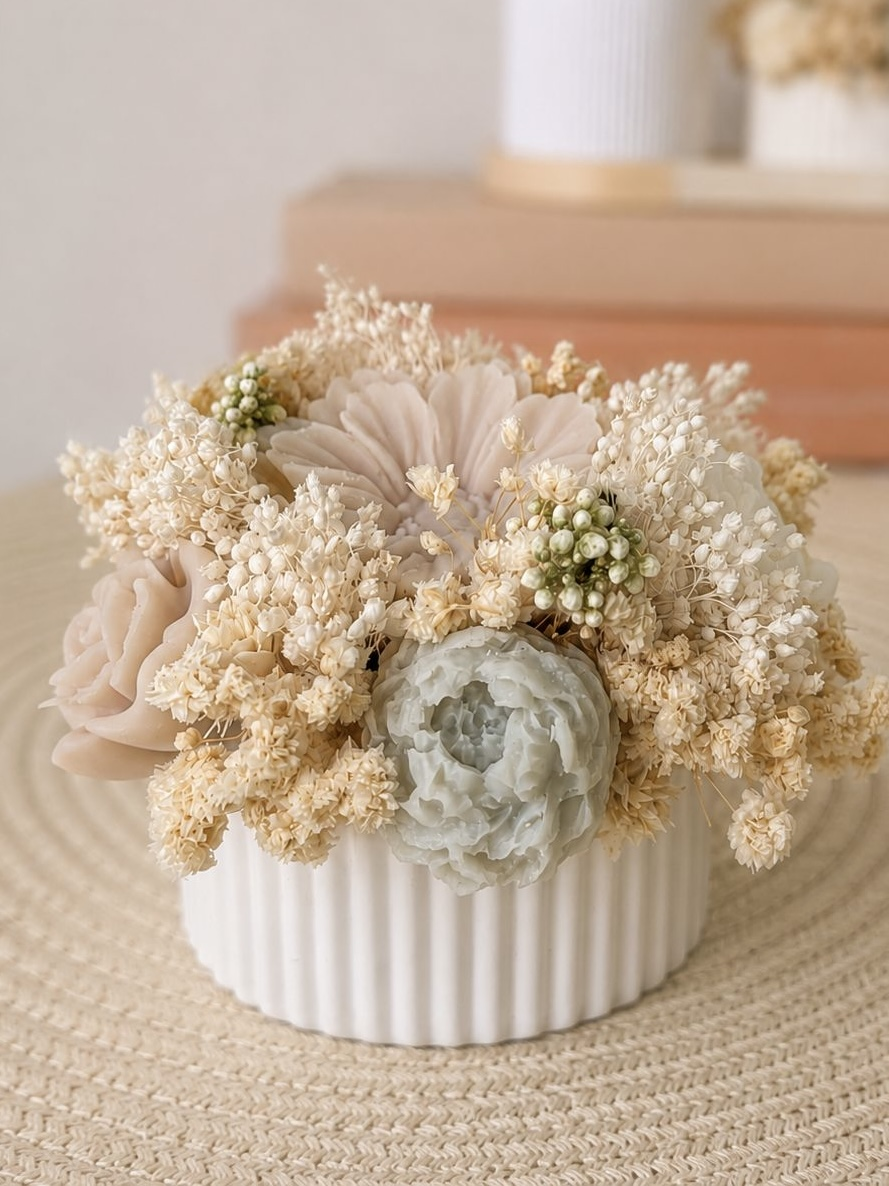
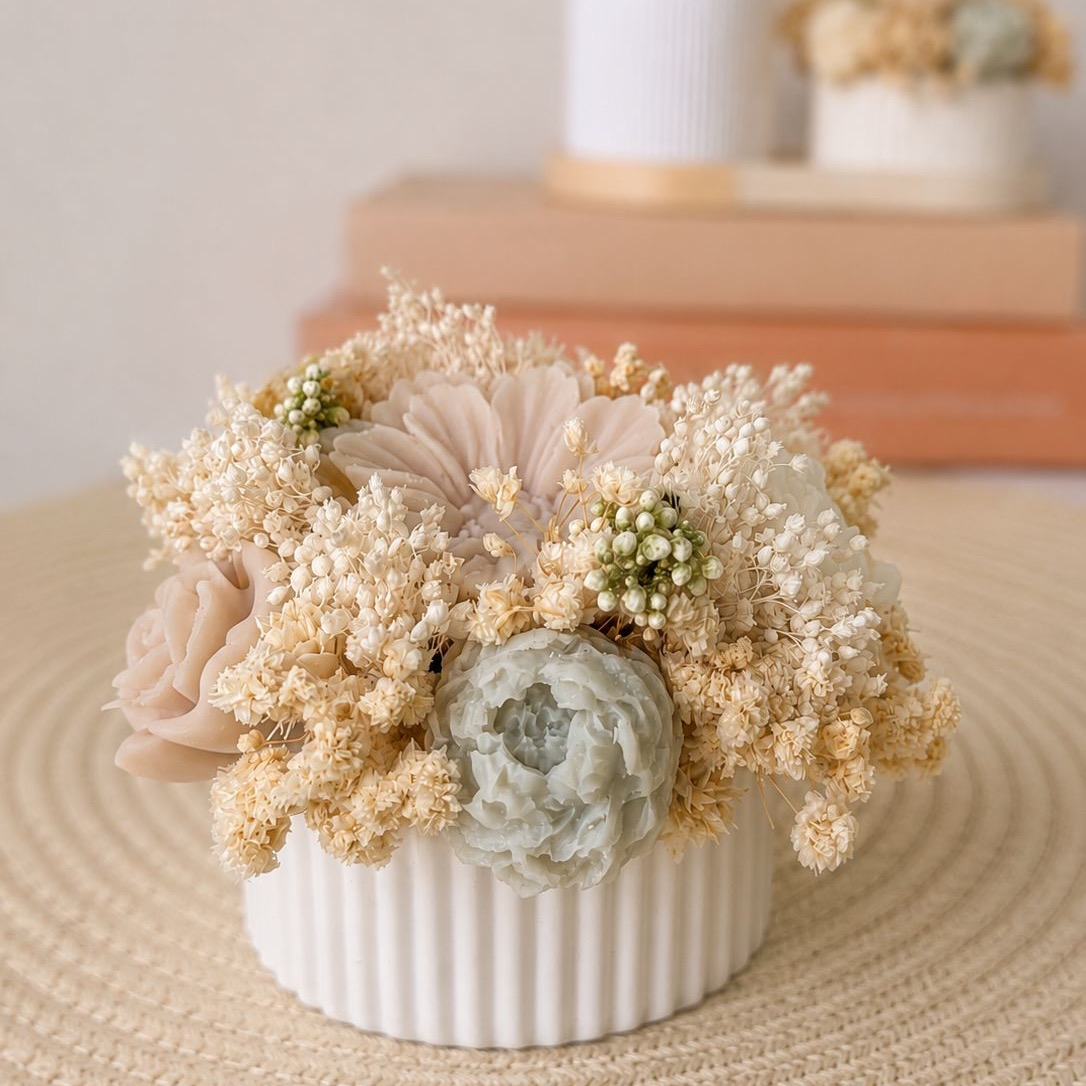
aggiornamento foto vaso essenza petit

diff --git a/src/App.tsx b/src/App.tsx
@@ -137,7 +137,7 @@ const products: Product[] = [
     variants: "Disponibile nelle palette della collezione.",
     note: "Richiedi un preventivo personalizzato se lo desideri come bouquet bomboniera.",
     images: ["/assets/catalog/essenza-petit.jpeg"],
-    imagePosition: "center 88%",
+    imagePosition: "center center",
     accent: "#9baa91",
   },
   {